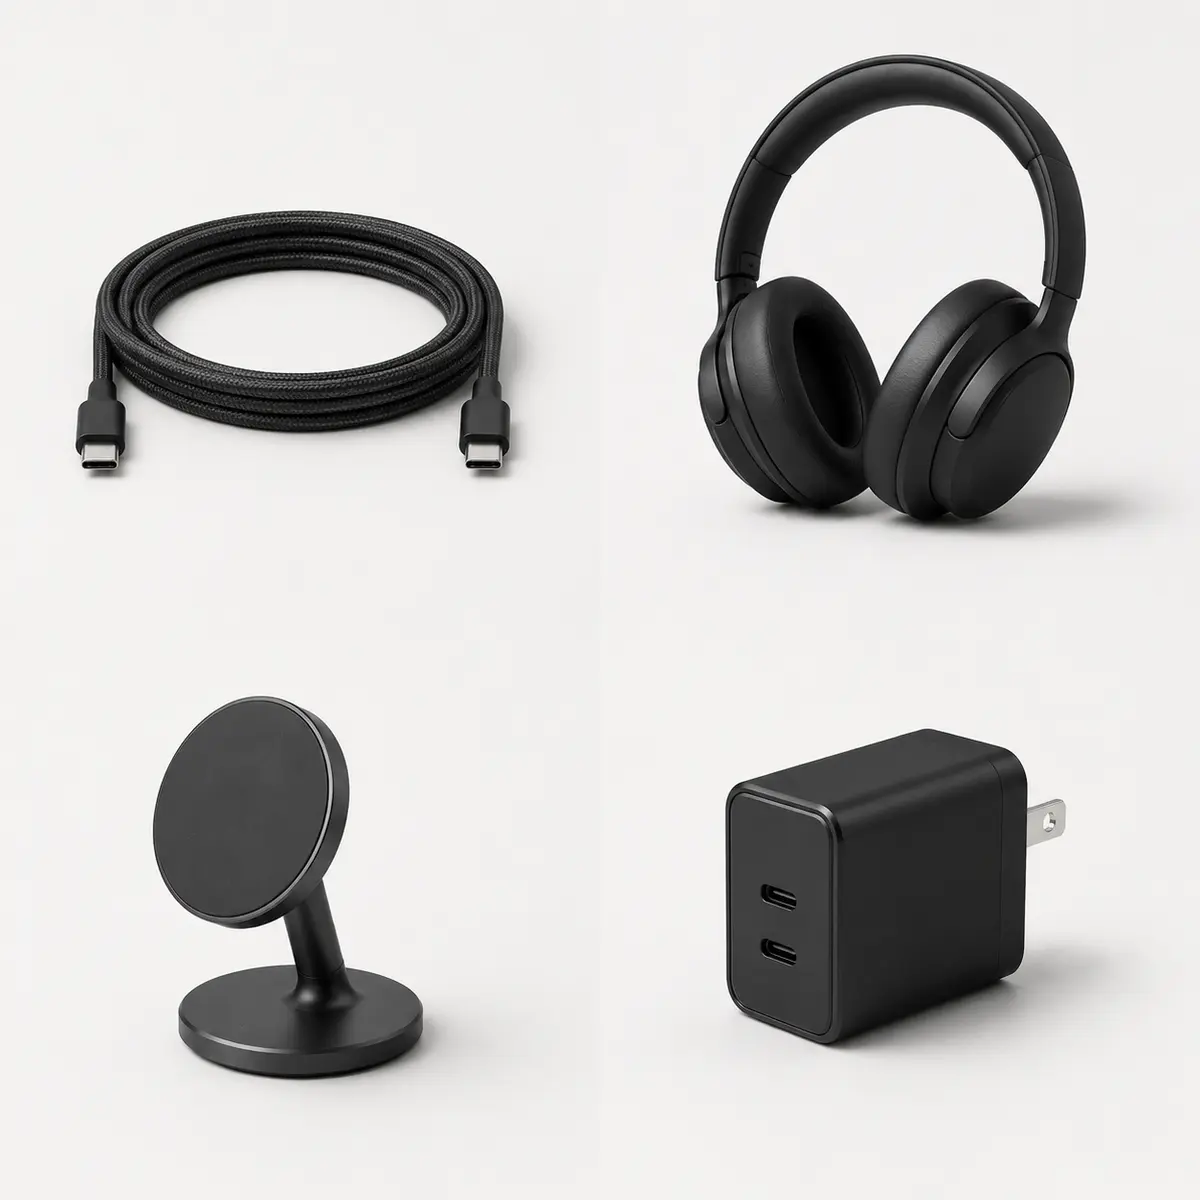
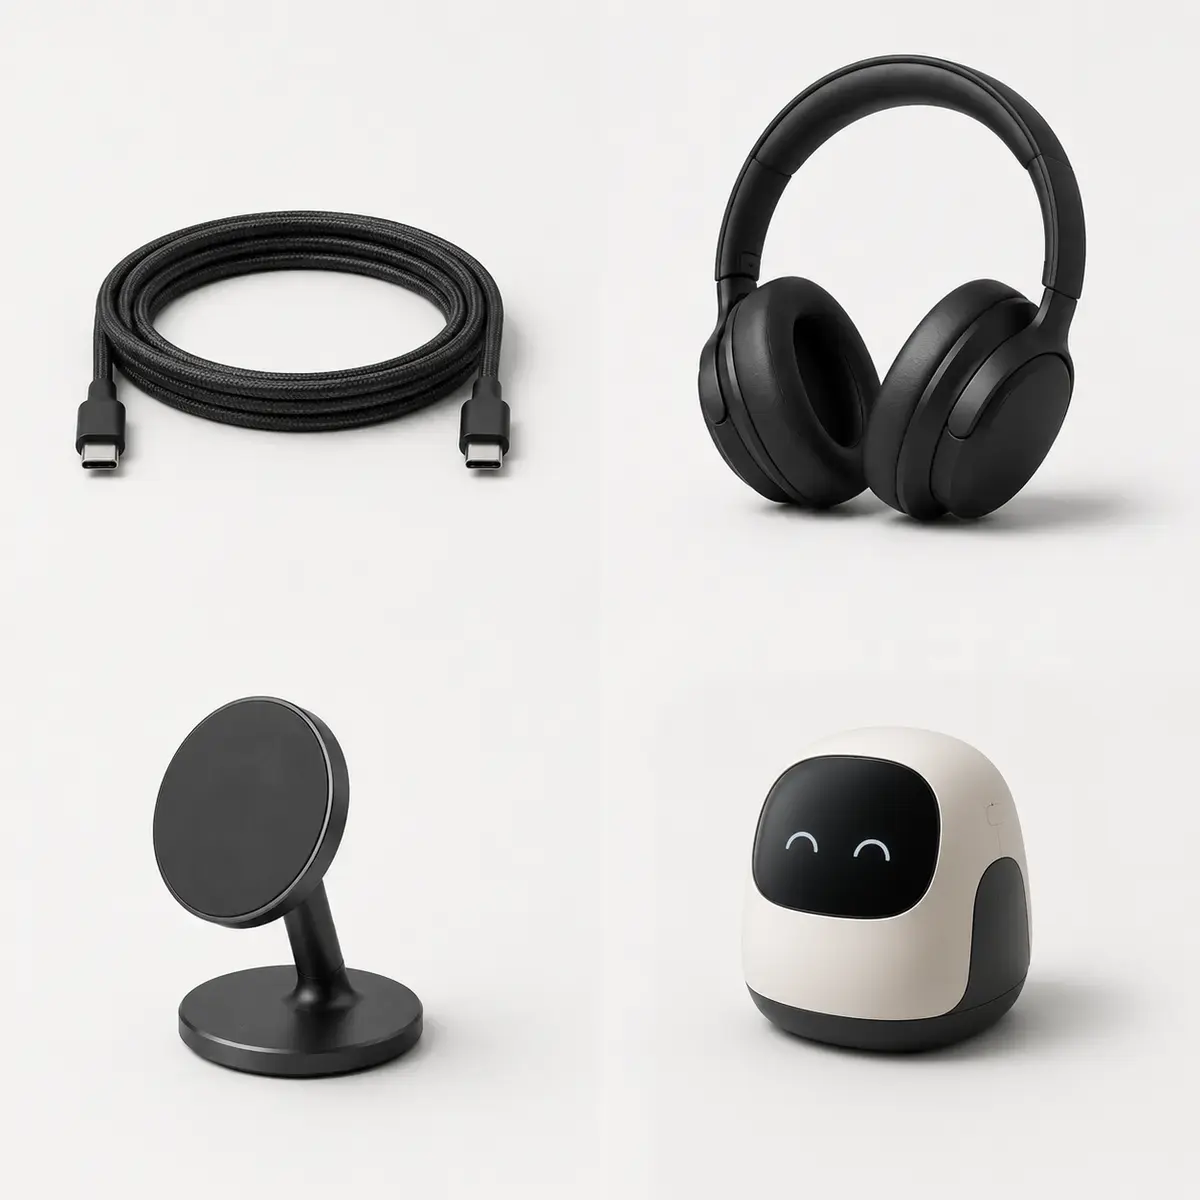
Add Orbit companion and refine product names

Changed region(s): [[0.5858, 0.5858, 0.9558, 0.8942]]

diff --git a/src/styles.css b/src/styles.css
@@ -83,6 +83,7 @@ svg { width: 1.1em; fill: none; stroke: currentColor; stroke-width: 1.7; stroke-
 .product-info span { color: var(--accent); text-transform: uppercase; letter-spacing: .13em; font-size: 10px; font-weight: 600; }
 .product-info h3 { margin: 8px 0 9px; font: 600 18px/1.25 ui-sans-serif, sans-serif; letter-spacing: -.03em; }
 .product-info p { margin: 0; color: var(--muted); line-height: 1.5; font-size: 14px; }
+.product-privacy { display: block; margin-top: 12px; color: #526116; font-size: 10px; font-style: normal; font-weight: 600; letter-spacing: .02em; }
 .product-action { display: flex; justify-content: space-between; align-items: center; }
 .product-action strong { font-size: 14px; }
 .product-action button { width: 40px; height: 40px; border-radius: 50%; border: 1px solid var(--line); background: var(--white); display: grid; place-items: center; cursor: pointer; transition: .2s ease; }
@@ -188,6 +189,10 @@ svg { width: 1.1em; fill: none; stroke: currentColor; stroke-width: 1.7; stroke-
 .privacy-stats strong { font: 600 24px ui-sans-serif, sans-serif; }
 .privacy-stats span { color: var(--muted); font-size: 11px; text-transform: uppercase; letter-spacing: .08em; }
 .privacy-stats .no-track { background: #f3f8e5; }
+.device-privacy-note { margin-top: 14px; padding: 16px 18px; background: #f3f8e5; display: grid; grid-template-columns: 150px 1fr; gap: 20px; align-items: start; }
+.device-privacy-note > span { color: #526116; font-size: 9px; font-weight: 600; letter-spacing: .1em; text-transform: uppercase; }
+.device-privacy-note strong { display: block; color: #27320b; font-size: 12px; }
+.device-privacy-note p { margin: 5px 0 0; color: #617037; font-size: 11px; line-height: 1.45; }
 .label-list { border-top: 1px solid var(--line); }
 .label-list-heading, .label-row summary { display: grid; grid-template-columns: 1.05fr 2fr .6fr; gap: 24px; align-items: center; }
 .label-list-heading { padding: 12px 44px; color: var(--muted); font-size: 9px; text-transform: uppercase; letter-spacing: .11em; }
@@ -247,6 +252,7 @@ footer { min-height: 210px; padding: 54px clamp(24px, 5vw, 76px); background: va
   .privacy-stats { grid-template-columns: 1fr; }
   .privacy-stats > div { border-right: 0; border-bottom: 1px solid var(--line); }
   .privacy-stats > div:last-child { border-bottom: 0; }
+  .device-privacy-note { grid-template-columns: 1fr; gap: 8px; }
   .label-list-heading { display: none; }
   .label-row summary { grid-template-columns: 1fr auto; padding: 18px 24px; gap: 8px 16px; }
   .label-row summary > span:nth-child(2) { grid-column: 1 / -1; grid-row: 2; }

diff --git a/src/App.tsx b/src/App.tsx
@@ -73,10 +73,12 @@ function PrivacyLabel({
   onClose,
   onUseMinimum,
   source,
+  product,
 }: {
   onClose: () => void
   onUseMinimum: () => void
   source: 'person' | 'agent'
+  product: Product
 }) {
   return (
     <div className="modal-backdrop" role="presentation" onMouseDown={onClose}>
@@ -105,6 +107,15 @@ function PrivacyLabel({
             <div><strong>2</strong><span>optional</span></div>
             <div className="no-track"><strong>None</strong><span>ad tracking</span></div>
           </div>
+          {product.privacy && (
+            <div className="device-privacy-note">
+              <span>About {product.name}</span>
+              <div>
+                <strong>{product.privacy.headline}</strong>
+                <p>{product.privacy.detail}</p>
+              </div>
+            </div>
+          )}
         </div>
 
         <div className="label-list">
@@ -179,6 +190,7 @@ function Shop({ onBuy }: { onBuy: (product: Product) => void }) {
                   <span>{product.category}</span>
                   <h3>{product.name}</h3>
                   <p>{product.description}</p>
+                  {product.privacy && <em className="product-privacy">{product.privacy.headline}</em>}
                 </div>
                 <div className="product-action">
                   <strong>{formatPrice(product.price)}</strong>
@@ -405,7 +417,7 @@ export default function App() {
               setPrivacySource('agent')
               setPrivacyOpen(true)
               setPrivacyReviewed(true)
-              return JSON.stringify(getAgentPrivacySummary())
+              return JSON.stringify(getAgentPrivacySummary(productRef.current))
             },
           },
           { signal: controller.signal },
@@ -562,7 +574,14 @@ export default function App() {
         </div>
       </footer>
 
-      {privacyOpen && <PrivacyLabel onClose={() => setPrivacyOpen(false)} onUseMinimum={applyMinimum} source={privacySource} />}
+      {privacyOpen && (
+        <PrivacyLabel
+          onClose={() => setPrivacyOpen(false)}
+          onUseMinimum={applyMinimum}
+          source={privacySource}
+          product={selectedProduct}
+        />
+      )}
     </div>
   )
 }

diff --git a/src/data.ts b/src/data.ts
@@ -5,40 +5,48 @@ export type Product = {
   description: string
   price: number
   imagePosition: 'top-left' | 'top-right' | 'bottom-left' | 'bottom-right'
+  privacy?: {
+    headline: string
+    detail: string
+  }
 }
 
 export const products: Product[] = [
   {
-    id: 'weave-cable',
-    name: 'Weave USB-C Cable',
+    id: 'loop-cable',
+    name: 'Loop USB-C Cable',
     category: 'Charging',
     description: 'A durable 2 m braided cable for everyday charging.',
     price: 24.95,
     imagePosition: 'top-left',
   },
   {
-    id: 'quiet-headphones',
-    name: 'Quiet Wireless Headphones',
+    id: 'hush-headphones',
+    name: 'Hush Wireless Headphones',
     category: 'Audio',
     description: 'Comfortable over-ear sound with 40 hours of battery.',
     price: 129,
     imagePosition: 'top-right',
   },
   {
-    id: 'snap-stand',
-    name: 'Snap Magnetic Stand',
+    id: 'halo-stand',
+    name: 'Halo Magnetic Stand',
     category: 'Mobile',
     description: 'A compact aluminium stand for desks and bedside tables.',
     price: 39.95,
     imagePosition: 'bottom-left',
   },
   {
-    id: 'duo-charger',
-    name: 'Duo 65W USB-C Charger',
-    category: 'Charging',
-    description: 'Fast charging for a laptop and phone from one small plug.',
-    price: 69.95,
+    id: 'orbit-companion',
+    name: 'Orbit Home Companion',
+    category: 'Home',
+    description: 'A palm-sized companion for reminders, timers and daily routines.',
+    price: 249,
     imagePosition: 'bottom-right',
+    privacy: {
+      headline: 'Camera-free · Voice processed on device',
+      detail: 'Orbit has no camera. Voice requests stay on the device by default; cloud features are opt-in.',
+    },
   },
 ]
 

diff --git a/src/privacy.ts b/src/privacy.ts
@@ -113,9 +113,18 @@ export function createPrivacyReceipt(choice: PrivacyChoice): PrivacyReceipt {
   }
 }
 
-export function getAgentPrivacySummary() {
+export function getAgentPrivacySummary(product?: {
+  name: string
+  privacy?: { headline: string; detail: string }
+}) {
   return {
     action: 'Create a demo account and place an electronics order',
+    product: product
+      ? {
+          name: product.name,
+          device_privacy: product.privacy ?? 'No product-specific device disclosure.',
+        }
+      : undefined,
     summary: '3 required data groups, 2 optional. No advertising tracking.',
     required: privacyItems
       .filter((item) => item.required)
@@ -125,6 +134,7 @@ export function getAgentPrivacySummary() {
       .map(({ data, why, sharedWith }) => ({ data, why, sharedWith })),
     recommendation: 'Omit phone number and decline marketing for minimum disclosure.',
     boundary: 'Personal values remain in the page. Tool output contains categories and choices only.',
+    scope: 'The checkout label covers this purchase. Product-specific device privacy is declared separately when relevant.',
     next: 'Explain the minimum option and ask the person to confirm before completing checkout.',
   }
 }

diff --git a/src/privacy.test.ts b/src/privacy.test.ts
@@ -34,4 +34,22 @@ describe('privacy minimisation', () => {
     expect(summary).not.toContain('email@example.com')
     expect(summary).toContain('categories and choices only')
   })
+
+  it('includes a selected product privacy declaration without form values', () => {
+    const summary = getAgentPrivacySummary({
+      name: 'Orbit Home Companion',
+      privacy: {
+        headline: 'Camera-free · Voice processed on device',
+        detail: 'Cloud features are opt-in.',
+      },
+    })
+
+    expect(summary.product).toEqual({
+      name: 'Orbit Home Companion',
+      device_privacy: {
+        headline: 'Camera-free · Voice processed on device',
+        detail: 'Cloud features are opt-in.',
+      },
+    })
+  })
 })

diff --git a/README.md b/README.md
@@ -18,6 +18,8 @@ This is not an AI summary of a privacy policy. Relay—the fictional retailer in
 
 No backend, database, authentication service, analytics, external fonts, or payment service is used. Refresh clears the demo.
 
+The collection uses one simple house-brand naming system—Loop, Hush, Halo, and Orbit—rather than presenting invented sub-brands. Orbit, the camera-free home companion, also demonstrates how a product-specific device privacy declaration can sit beside the action-specific checkout label without turning the MVP into a device-management platform.
+
 ## WebMCP tools
 
 The page registers two imperative WebMCP tools through `document.modelContext`:
